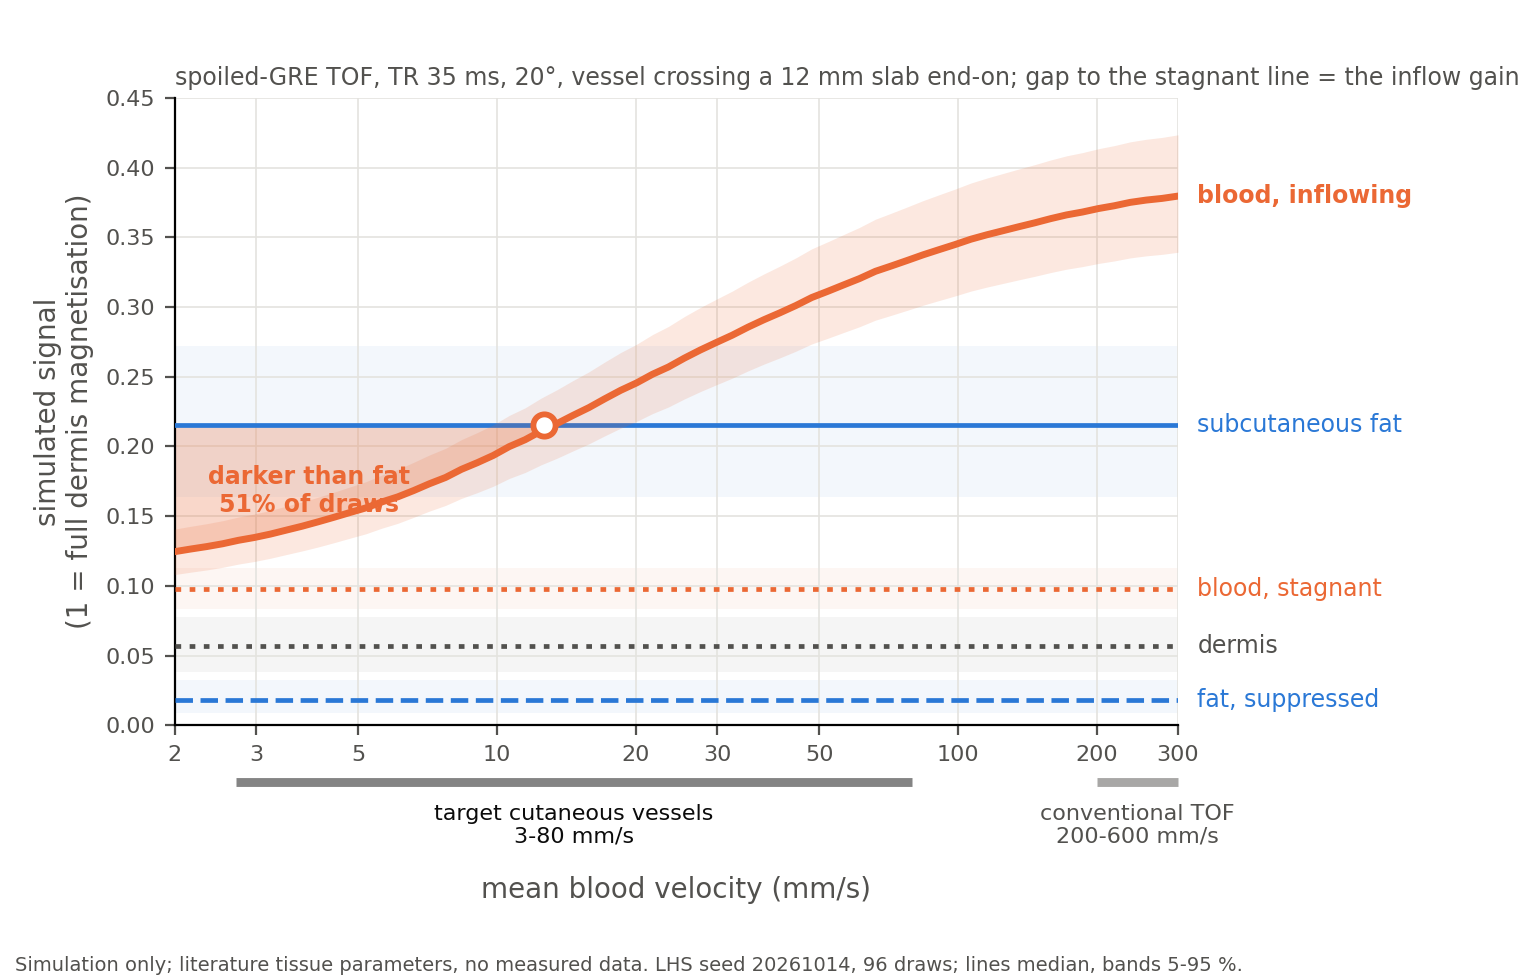
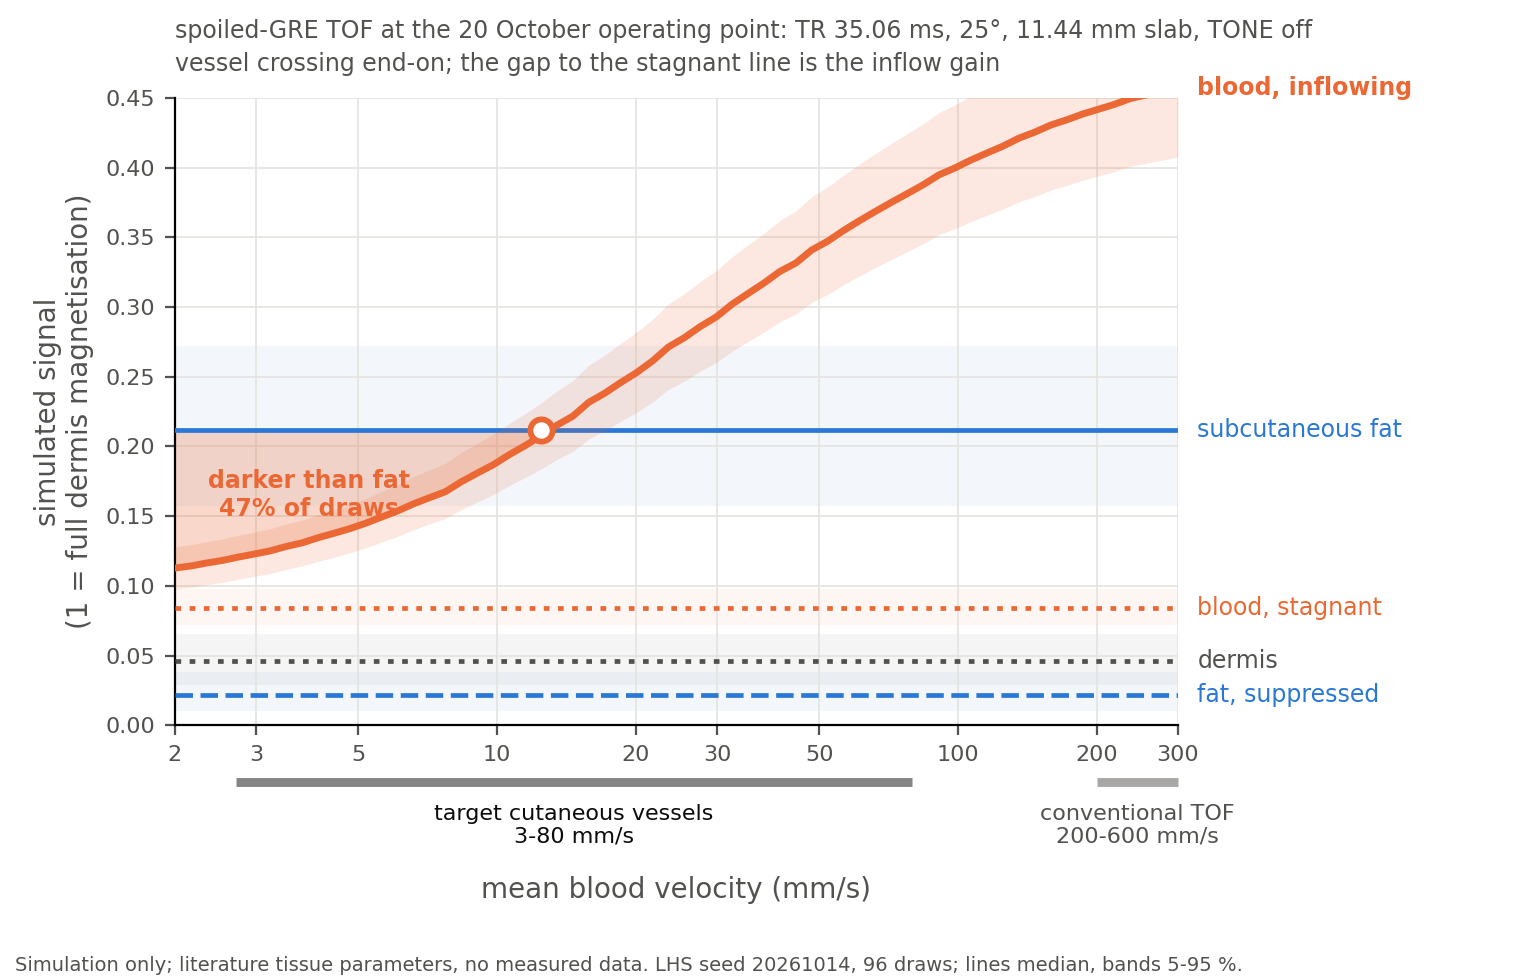
Add the 20 October session and rebuild Figure 1b on it
protocols.py encoded only the 13 October operating point, so every figure was
drawn at a TR, flip and slab the project has since moved past. The four
20 October arms are now in the table, decoded from each series' own embedded
MrPhoenixProtocol rather than from the series names.

What differs between those arms is exactly three things - TR, the saturation
modules, and the band geometry on the reversed arm. That is not an assumption:
a key-by-key diff of all four protocols found 19 meaningful differences and no
others.

The slab orientation is the one worth noting. Its normal is 83.2 deg from the
head-foot axis, so the slab lies ALONG the limb and is roughly tangent to the
skin: orientation 0, not the 90 deg of 13 October, despite "tra" in every
series name. The protocol's own sNormal and the DICOM ImageOrientationPatient
agree to 1.0000, so this is decoded, not inferred.

Figure 1b now reads TR, flip, slab thickness and voxel from the no-saturation
arm. That arm is the right base because its 35.06 ms is the TR the sequence
reaches when nothing else is played, so adding a fat-sat pulse at the same TR
is a clean counterfactual rather than a comparison that also moves the timing.
TONE and the band stay off, as before and now said so on the figure: this panel
isolates what inflow alone buys against each background, and a depth-varying
flip would fold into the same curve.

The conclusions survive the move to 25 deg and 11.44 mm. Inflow runs 1.4x at
[…]

diff --git a/figures/fig1b_regime.py b/figures/fig1b_regime.py
@@ -13,11 +13,11 @@ against drawn as flat references:
 
 Two things follow, and they are different claims:
 
-  - inflow still works: 1.4x at 3 mm/s to 3.4x at 80 mm/s over the stagnant
+  - inflow still works: 1.4x at 3 mm/s to 4.5x at 80 mm/s over the stagnant
     floor, so it is not exhausted at cutaneous velocities;
   - but it is not what makes the vessel visible. Stagnant blood already beats
     dermis and suppressed fat. Inflow is load-bearing only against UNSUPPRESSED
-    fat, where stagnant blood sits at 0.45x the background - and there it
+    fat, where stagnant blood sits at 0.40x the background - and there it
     fails, inverting in every parameter draw.
 
 Layout: the velocity regimes sit on a rail below the axes rather than as shaded
@@ -35,7 +35,7 @@ from common import GRID, INK, INK_2, N_SHELLS, SERIES, plt, save
 
 from geometry import Slab, Vessel
 from sequence import FlowGeometry, SaturationModule, TissueSample, TofSequence
-from protocols import BANDWIDTH_PER_PX_HZ, PARTITION_MM, PRISMA_XR, RF_DURATION_MS, fl3d1r_timing
+from protocols import MEASURED
 from tissues import HAEMODYNAMICS, PARAM_FIELDS, sample_tissues
 
 # Validated two-hue pair (dataviz validator, light surface): blood vs fat.
@@ -43,7 +43,14 @@ BLOOD_C, FAT_C = SERIES[1], SERIES[0]
 DOTTED = (0, (1.2, 1.8))
 
 SEED, N_DRAWS = 20261014, 96
-TR_MS, FLIP_DEG, SLAB_MM, INPLANE_MM = 35.0, 20.0, 12.0, 0.3
+
+# The readout is the 20 October arm WITHOUT fat saturation, because that is the
+# TR the sequence reaches when nothing else is played: adding a fat-sat pulse at
+# the same TR is then the counterfactual this figure needs, rather than a
+# comparison that also changes the timing. Every number comes from the protocol.
+BASE = MEASURED["20oct_nosat"]
+TR_MS, FLIP_DEG = BASE.timing.tr_ms, BASE.flip_deg
+SLAB_MM, INPLANE_MM = BASE.slab_thickness_mm, BASE.inplane_mm
 VELOCITIES = np.geomspace(2.0, 300.0, 64)
 CONVENTIONAL_TOF = (200.0, 600.0)  # intracranial / run-off TOF, for scale
 TICKS = (2, 3, 5, 10, 20, 30, 50, 100, 200, 300)
@@ -60,10 +67,17 @@ def draw() -> tuple[list[dict[str, TissueSample]], np.ndarray]:
 
 
 def sequences() -> tuple[TofSequence, TofSequence]:
-    """Return the TOF readout without and with a per-TR fat-saturation pulse."""
-    timing = fl3d1r_timing(INPLANE_MM, PARTITION_MM, BANDWIDTH_PER_PX_HZ, RF_DURATION_MS, TR_MS, PRISMA_XR)
-    return (TofSequence(timing=timing, flip_deg=FLIP_DEG),
-            TofSequence(timing=timing, flip_deg=FLIP_DEG, modules=(SaturationModule("fatsat_s", 8.0),)))
+    """Return the TOF readout without and with a per-TR fat-saturation pulse, at one shared TR.
+
+    TONE and the travelling saturation band are deliberately left OFF, although
+    the acquired protocol runs both. This figure isolates what inflow alone buys
+    against each background; a ramp that varies the flip with depth and a band
+    that pre-saturates the inflow would both fold into the same curve and could
+    not be read apart from it. Figure 4 is where those arms are compared.
+    """
+    return (TofSequence(timing=BASE.timing, flip_deg=FLIP_DEG),
+            TofSequence(timing=BASE.timing, flip_deg=FLIP_DEG,
+                        modules=(SaturationModule("fatsat_s", BASE.fat_sat_delay_ms),)))
 
 
 def blood_at(seq: TofSequence, sample: TissueSample, velocity: float) -> float:
@@ -176,9 +190,10 @@ def main() -> None:
     ax.set_xlabel("mean blood velocity (mm/s)", color=INK_2, labelpad=40)
     ax.set_ylabel("simulated signal\n(1 = full dermis magnetisation)", color=INK_2)
     # No in-figure headline: the claim belongs in the caption, not on the axes.
-    ax.text(0, 1.02, f"spoiled-GRE TOF, TR {TR_MS:g} ms, {FLIP_DEG:g}°, vessel crossing a {SLAB_MM:g} mm slab "
-                     f"end-on; gap to the stagnant line = the inflow gain",
-            transform=ax.transAxes, fontsize=8.5, color=INK_2)
+    ax.text(0, 1.035, f"spoiled-GRE TOF at the 20 October operating point: TR {TR_MS:g} ms, {FLIP_DEG:g}°, "
+                     f"{SLAB_MM:g} mm slab, TONE off\nvessel crossing end-on; the gap to the stagnant "
+                     f"line is the inflow gain",
+            transform=ax.transAxes, fontsize=8.5, color=INK_2, va="bottom", linespacing=1.45)
     ax.grid(color=GRID, lw=0.6, zorder=0)
     ax.tick_params(colors=INK_2, labelsize=8)
     for side in ("top", "right"):

diff --git a/protocols.py b/protocols.py
@@ -187,7 +187,7 @@ _OPERATING_POINT = Protocol(
     fat_sat_delay_ms=8.0, mtc_delay_ms=8.0,
 )
 
-MEASURED: dict[str, Protocol] = {
+MEASURED_13OCT: dict[str, Protocol] = {
     p.name: p for p in (
         replace(_OPERATING_POINT, name="13oct_0.26mm", inplane_mm=0.2578, console_ta_s=349.9),
         replace(_OPERATING_POINT, name="13oct_0.35mm", inplane_mm=0.3477, console_ta_s=246.8),
@@ -199,6 +199,64 @@ MEASURED: dict[str, Protocol] = {
                 console_ta_s=246.8, slab_orientation_deg=0.0),
     )
 }
+
+# --- 20 October 2026: four arms at 0.22 mm, near-isotropic -----------------------
+# Decoded from each series' own embedded MrPhoenixProtocol. A key-by-key diff of
+# the four protocols found 19 meaningful differences and no others, so what
+# separates the arms is exactly: TR, the saturation modules, and - on the
+# reversed arm only - the band geometry.
+
+# KNOWN SHORTFALL: the derived scan time comes out 0.84x the console's for all
+# four arms. The protocol declares sKSpace.lPhaseEncodingLines = 293 while
+# lines_per_partition derives 244 from the phase FOV and voxel, and 293/244 =
+# 1.20 is exactly the missing factor. The acquired line count is evidently not
+# the reconstructed matrix. Scan time feeds detect.cnr_efficiency, so this is
+# worth fixing with an explicit acquired-lines field rather than a fudge.
+OCT20_TE_MS, OCT20_BANDWIDTH_HZ = 5.86, 187.0
+OCT20_INPLANE_MM, OCT20_PARTITION_MM = 0.217593, 0.22
+OCT20_RF_DURATION_MS = infer_rf_duration_ms(OCT20_TE_MS, OCT20_INPLANE_MM, OCT20_PARTITION_MM,
+                                            OCT20_BANDWIDTH_HZ, PRISMA_XR)
+
+
+def oct20_timing(tr_ms: float) -> ReadoutTiming:
+    """Return the 20 October readout timing at one arm's TR; every other component is shared."""
+    return fl3d1r_timing(OCT20_INPLANE_MM, OCT20_PARTITION_MM, OCT20_BANDWIDTH_HZ,
+                         OCT20_RF_DURATION_MS, tr_ms, PRISMA_XR)
+
+
+_OCT20 = Protocol(
+    name="", acquired="2026-10-20", timing=oct20_timing(50.60), flip_deg=25.0, tone_pct=70.0,
+    tone_direction=+1,  # ASSUMED, as on 13 October: the declared flow direction is not decoded
+    fat_sat=True, mtc=False,
+    sat_band=SatBand(thickness_mm=40.0, gap_mm=10.0, side=+1),
+    # The slab normal is 83.2 deg from the head-foot axis, so the slab lies ALONG
+    # the limb and is roughly tangent to the skin: orientation 0, not the 90 deg
+    # of 13 October, despite "tra" in every series name. Verified two ways - the
+    # protocol's own sNormal and the DICOM ImageOrientationPatient agree to 1.0000.
+    slab_orientation_deg=0.0,
+    n_partitions=52, partition_mm=OCT20_PARTITION_MM, slice_oversampling=0.153846153846,
+    inplane_mm=OCT20_INPLANE_MM, read_fov_mm=94.0, phase_fov_mm=53.0925925926,
+    grappa_r=2, grappa_ref_lines=32, partial_fourier_slice=7 / 8, partial_fourier_phase=1.0,
+    n_channels=4, console_ta_s=442.0, fat_sat_delay_ms=8.0, mtc_delay_ms=8.0,
+)
+
+MEASURED_20OCT: dict[str, Protocol] = {
+    p.name: p for p in (
+        replace(_OCT20, name="20oct_fatsat"),
+        replace(_OCT20, name="20oct_nosat", timing=oct20_timing(35.06), fat_sat=False,
+                console_ta_s=307.0),
+        # ucTOFFlowInNormalDir is set on this arm alone, which reverses the declared
+        # flow direction, so the TONE ramp and the band side both flip. ASSUMED that
+        # the one flag drives both. The band itself also changed, which makes this a
+        # weaker, closer band on the other side rather than the same band mirrored.
+        replace(_OCT20, name="20oct_band_reversed", tone_direction=-1,
+                sat_band=SatBand(thickness_mm=10.0, gap_mm=2.0, side=-1)),
+        replace(_OCT20, name="20oct_fatsat_mtc", timing=oct20_timing(63.87), mtc=True,
+                console_ta_s=556.0),
+    )
+}
+
+MEASURED: dict[str, Protocol] = {**MEASURED_13OCT, **MEASURED_20OCT}
 
 # --- Candidates not yet run ----------------------------------------------------------
 

diff --git a/tests/test_protocols.py b/tests/test_protocols.py
@@ -5,7 +5,12 @@ import pytest
 from protocols import (
     ALL_PROTOCOLS,
     CANDIDATES,
+    CONSOLE_TE_MS,
+    CONSOLE_TR_MS,
+    OCT20_TE_MS,
     MEASURED,
+    MEASURED_13OCT,
+    MEASURED_20OCT,
     PRISMA_XR,
     RF_DURATION_MS,
     GradientSystem,
@@ -18,13 +23,25 @@ from protocols import (
 
 
 @pytest.mark.parametrize("protocol", MEASURED.values(), ids=lambda p: p.name)
-def test_readout_timing_reproduces_console_tr_and_te(protocol):
+def test_readout_timing_is_internally_consistent(protocol):
+    """TR is the sum of its named components and the readout is the reciprocal bandwidth."""
     t = protocol.timing
-    assert t.tr_ms == pytest.approx(45.22, abs=0.2)
-    assert t.te_ms == pytest.approx(5.13, abs=0.2)
-    assert t.readout_ms == pytest.approx(1000.0 / 186.0)
+    assert t.readout_ms == pytest.approx(1000.0 / t.bandwidth_per_px_hz)
+    assert t.dead_time_ms >= 0
     assert t.tr_ms == pytest.approx(t.rf_duration_ms + t.rephaser_ms + t.prephaser_ms + t.readout_ms
                                     + t.spoiler_ms + t.dead_time_ms)
+
+
+@pytest.mark.parametrize("session, console_te_ms, console_tr_ms", [
+    (MEASURED_13OCT, CONSOLE_TE_MS, CONSOLE_TR_MS),
+    (MEASURED_20OCT, OCT20_TE_MS, None),  # 20 October: TE shared, TR differs per arm
+])
+def test_each_session_reproduces_its_own_console_te(session, console_te_ms, console_tr_ms):
+    """TE comes back by construction for every arm, and TR too where the session shares one."""
+    for protocol in session.values():
+        assert protocol.timing.te_ms == pytest.approx(console_te_ms, abs=0.2)
+        if console_tr_ms is not None:
+            assert protocol.timing.tr_ms == pytest.approx(console_tr_ms, abs=0.2)
 
 
 def test_inferred_rf_duration_is_positive_and_below_a_few_ms():
@@ -69,4 +86,6 @@ def test_finer_inplane_needs_a_longer_prephaser_so_te_grows():
 def test_measured_and_candidate_protocols_share_one_type():
     assert all(isinstance(p, Protocol) for p in ALL_PROTOCOLS.values())
     assert all(p.acquired is None and p.console_ta_s is None for p in CANDIDATES.values())
-    assert len(MEASURED) == 5
+    assert all(p.acquired is not None for p in MEASURED.values())
+    assert len(MEASURED_13OCT) == 5 and len(MEASURED_20OCT) == 4
+    assert MEASURED == {**MEASURED_13OCT, **MEASURED_20OCT}
